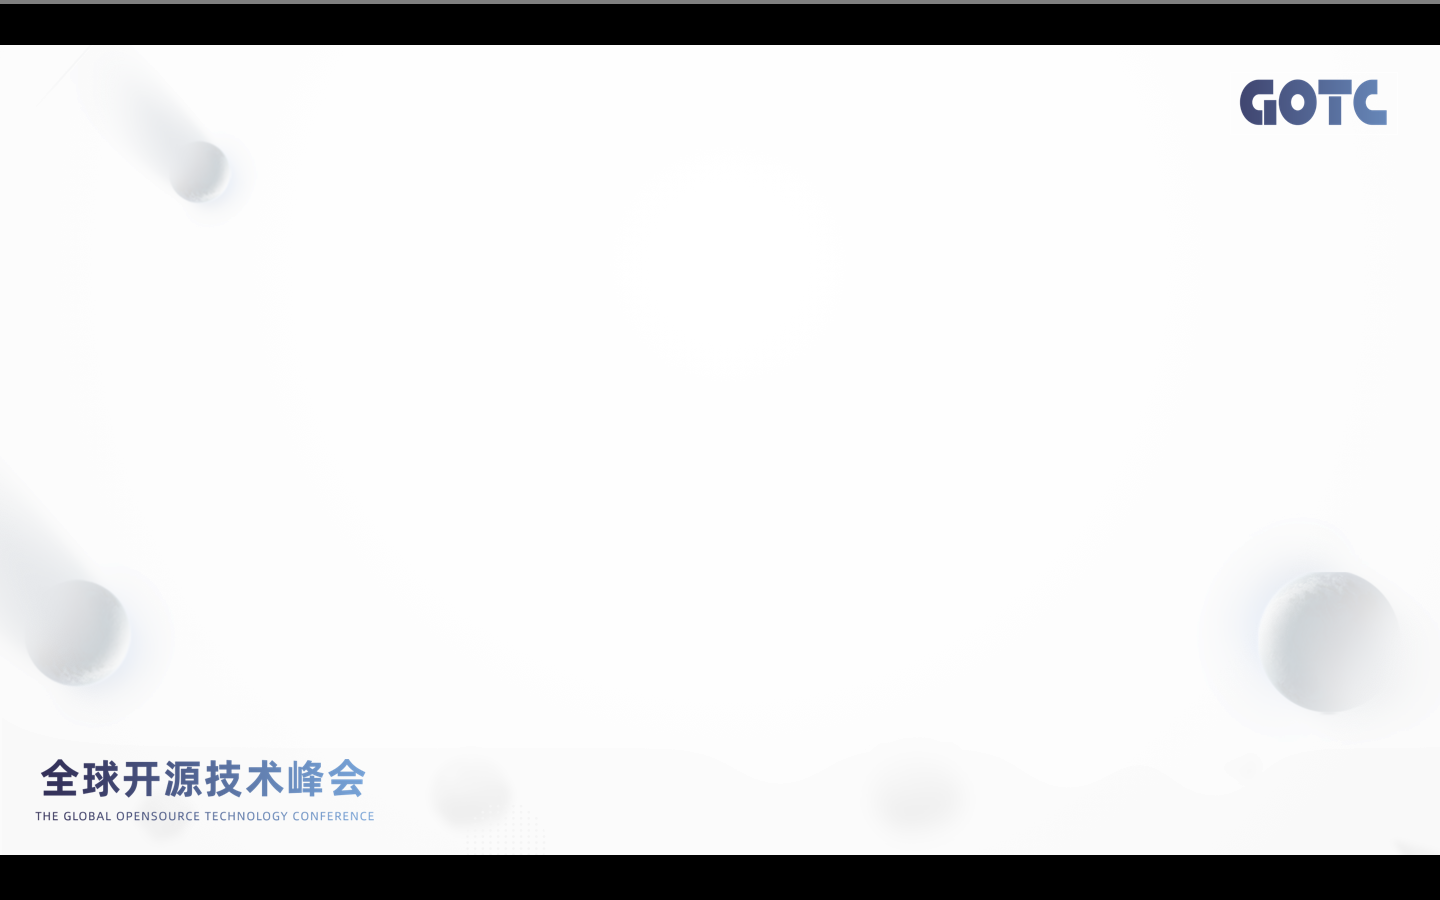
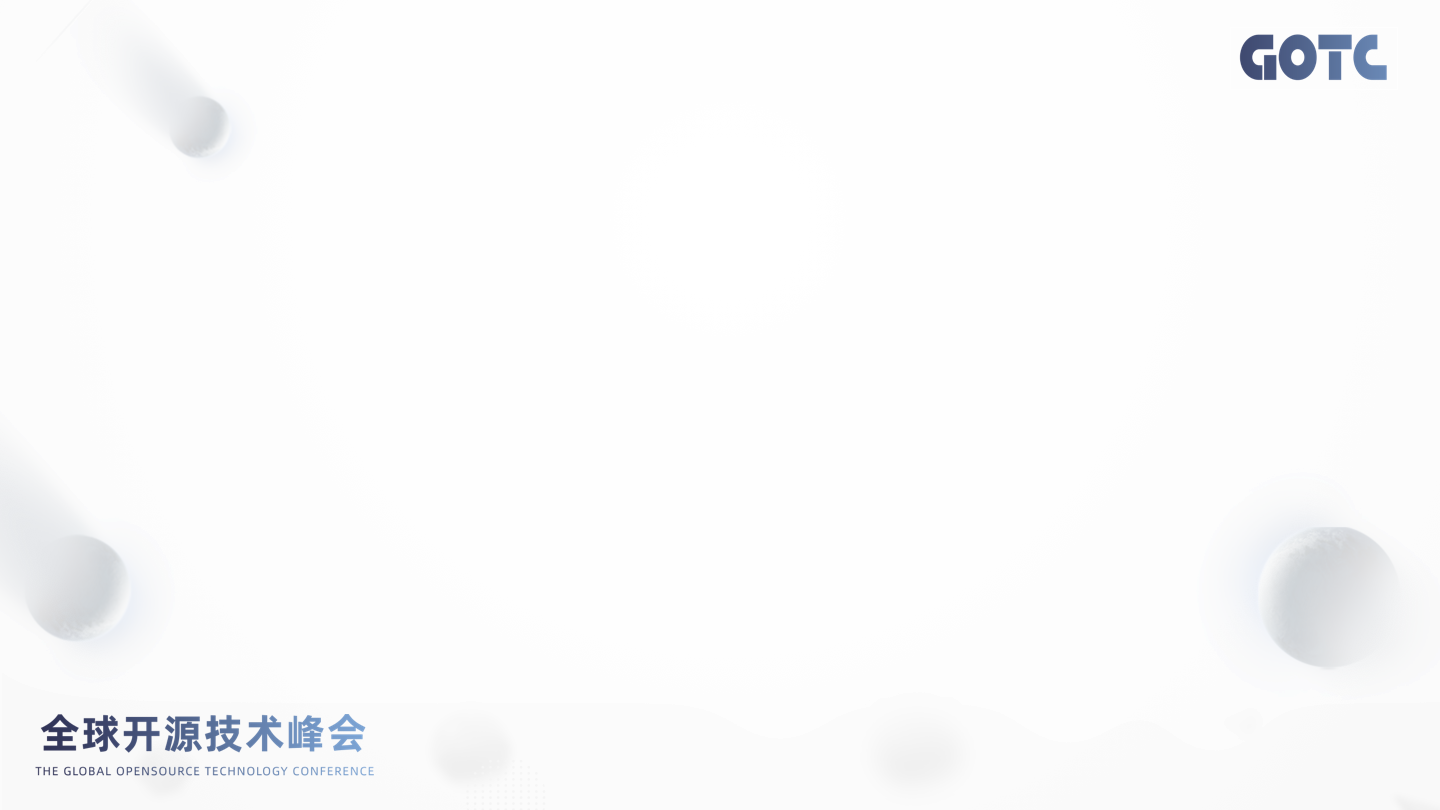
add gotc version

diff --git a/2023/var-ts/gotc.html b/2023/var-ts/gotc.html
@@ -1,0 +1,39 @@
+<!doctype html>
+<head>
+<meta charset="utf-8">
+<title>Slide</title>
+
+<link rel="stylesheet" href="../../takahashi/common.css">
+<link rel="stylesheet" title=light href="../../takahashi/light.css">
+<link rel="alternate stylesheet" title=dark href="../../takahashi/dark.css">
+<link rel="alternate stylesheet" title=EVA href="../../takahashi/eva.css">
+<link rel="alternate stylesheet" title=debug href="../../takahashi/debug.css">
+
+<link rel="stylesheet" title=light href="https://unpkg.com/prismjs/themes/prism.css">
+<link rel="alternate stylesheet" title=dark href="https://unpkg.com/prismjs/themes/prism-twilight.css">
+<link rel="alternate stylesheet" title=EVA href="https://unpkg.com/prismjs/themes/prism-tomorrow.css">
+
+<style>
+html {
+	background: url(./bg.png) no-repeat #ededed;
+	background-size: cover;
+	margin: 0;
+}
+html[data-slide-index="0"] {
+	background: url(./front.png) no-repeat #ededed;
+	background-size: cover;
+}
+</style>
+
+<body>
+<!--<div id="page-box"></div>-->
+
+<!-- <script src="https://unpkg.com/prismjs/prism.js" data-manual></script> -->
+<script src="https://unpkg.com/prismjs/components/prism-core.min.js"></script>
+<script src="https://unpkg.com/prismjs/plugins/autoloader/prism-autoloader.min.js"></script>
+<script src="../../takahashi/prism-file-highlight.js"></script>
+
+<!-- <link rel="stylesheet" href="https://unpkg.com/prismjs/plugins/line-highlight/prism-line-highlight.css"> -->
+<!-- <script src="https://unpkg.com/prismjs/plugins/line-highlight/prism-line-highlight.js"></script> -->
+
+<script src="../../takahashi/index.js"></script>

diff --git a/2023/var-ts/gotc.md b/2023/var-ts/gotc.md
@@ -1,0 +1,304 @@
+![]()
+
+知乎 贺师俊
+微博 @johnhax
+GitHub @hax
+
+关于我
+
+![hax github homepage](hax-github.png)
+
+Web前端和JS语言
+20多年发展历程
+见证人和参与者
+
+Ecma-TC39
+JavaScript 语言标准委员会
+- 2019年6月~2021年4月 360集团 代表
+- 2021年4月起 特邀专家
+
+JSCIG
+JavaScript Chinese Interest Group
+发起人和会议组织者
+
+以下JS语言提案的champion
+- Generator `function.sent` meta property
+- Static Dispatch (Extension methods)
+- `class.hasInstance()` meta method
+- Double-ended destructuring and iteration
+- slice notation (`array[start:end]`)
+- index from end (`array[^i]`)
+
+
+从 alt-JS 到 var-TS
+—— JavaScript/TypeScript 生态下的变种语言评述和展望
+
+什么是 alt-JS？
+
+![alt-js-1](google-alt-js-1.png)
+
+![alt-js-2](google-alt-js-2.png)
+
+![alt-js-3](google-alt-js-3.png)
+
+![alt-js-4](google-alt-js-4.png)
+
+![alt-js-5](google-alt-js-5.png)
+
+alt-JS是指可以被编译到JavaScript语言的任何非JavaScript语言。
+常见的alt-JS包括TypeScript，CoffeeScript，Dart等。这些语言都
+提供了更加丰富的语法和特性，使得开发者可以更加高效地编写复杂
+的应用程序。通过编译器或转换工具，alt-JS可以被转换为JavaScript
+代码，从而在任何支持JavaScript的浏览器或运行环境上执行。（GPT）
+
+Alternatives to JavaScript
+
+![alt-js-langs](google-alt-js-langs.png)
+
+[altjs.org](https://smurfpandey.github.io/altjs/)
+
+百花齐放
+
+咖啡真香
+
+2012
+
+三强争霸
+
+- [CoffeeScript 2009](https://coffeescript.org/)
+- [Dart 2011](https://blog.chromium.org/2011/10/dart-language-for-structured.html)
+- [TypeScript 2012](http://web.archive.org/web/20210926155037/https://channel9.msdn.com/posts/Anders-Hejlsberg-Introducing-TypeScript)
+
+[2015年时我的看法](https://zhuanlan.zhihu.com/p/20001713)
+CoffeeScript、Dart、TypeScript
+代表了Web编程语言发展的三条路线
+
+- Coffee：换汤不换药（改语法，基本不改语义）
+- TypeScript：保留原汤多加味药（基本不改，加入静态类型）
+- Dart：倒掉原来汤药，重新煎一罐（追求性能）
+
+顺便回答
+Why alt-JS？
+
+- DX（编程体验）
+- PITL（大型编程）
+- 性能
+
+[2015年时我的看法](https://zhuanlan.zhihu.com/p/20001713)
+- 天下仍然是JavaScript的，但JS本身大变样（ES 6）
+- TypeScript全面兼容ES6，路线之争大赢家（尽管用的人还不多）
+- CoffeeScript的大量语法糖被吸纳进了ES6里，算保留了精髓
+- 只有Dart处于越来越尴尬的境地
+
+[justgage/a-tour-of-alt-js-languages](https://speakerdeck.com/justgage/a-tour-of-alt-js-languages)
+
+- Babel
+- TypeScript
+- Elm
+- ReasonML
+
+CoffeeScript
+已经不见了
+
+- [2012/9 Dropbox 宣布其前端代码从JS改为Coffee](https://dropbox.tech/application/dropbox-dives-into-coffeescript)
+- [2017/5 Dropbox 基本完成从Coffee到TS的迁移](https://dropbox.tech/frontend/the-great-coffeescript-to-typescript-migration-of-2017)
+
+标志性事件
+Atom
+sunset on 2022/12
+
+总结一下 alt-JS 的历史
+- 前2009：百花齐放
+- 2009：咖啡真香
+- 2015：三强争霸，TS成为路线赢家
+- 2017：Coffee退潮，Dart转型，TS成为主流
+- 2022：TS寻求融入JS标准，Coffee离场
+- 2015~2022：几乎没有值得一提的新 alt-JS
+
+alt-JS 终结于 TS
+
+为什么 TS 笑到了最后？
+
+- DX（编程体验）
+- PITL（大型编程）
+- 性能
+
+DX 主观评分
+- ES3/ES5 40
+- Coffee 85
+- ES6 60
+- ES6+工具链（TS） 80
+- Coffee+工具链 90
+
+性能 可能不是问题
+- 90% 的项目不用考虑性能
+- JS 性能已经很好
+- 性能的工程解决方案有很多（如 WASM）
+
+采用 alt-JS 的收益
+采用 alt-JS 的成本
+
+TS/JS 一体化
+（无需 alt）
+
+TS 就是答案吗？
+
+没有银弹
+
+![deno内部代码去除ts](deno-stop-use-ts.png)
+
+![svelte从ts迁移到jsdoc](svelte-drop-ts.png)
+
+![放弃ts](google-giveup-ts.png)
+
+- [Deno will stop using TypeScript](https://news.ycombinator.com/item?id=23592483)
+- [TypeScript is ‘not worth it’ for developing libraries](https://devclass.com/2023/05/11/typescript-is-not-worth-it-for-developing-libraries-says-svelte-author-as-team-switches-to-javascript-and-jsdoc/)
+- [7 really good reasons not to use TypeScript](https://juejin.cn/post/6844904069224480782)
+- [17 Compelling Reasons To Start Ditching TypeScript Now](https://dev.to/wiseai/17-compelling-reasons-to-start-ditching-typescript-now-249b)
+
+并不是JS
+子集而不是超集
+不同的编译选项可认为是不同的子集
+
+类型系统过于强大但又有限制
+类型体操
+类型代码比实际代码还多
+学习曲线、使用成本
+
+By design
+Not Sound
+
+仅仅是type checker
+无RTTI
+类型信息不能
+用来提升性能
+
+var-TS
+
+什么是 var-TS？
+
+不用搜索
+不用问 ChatGPT
+
+因为这个术语
+是我发明的 😎
+
+Variants of TypeScript
+基于TypeScript的变种语言
+设计目标通常是克服TS的前述问题
+
+- TypeScript++/TypeScript--
+- AssemblyScript
+- Static TypeScript (Microsoft Makecode)
+- UniApp UTS（UCloud）
+- OpenHarmony eTS/arkTS（华为）
+- AliOS XTS（斑马智行）
+- TS subset 用于 IoT（某国内科技公司联合某国际大厂）
+
+
+[Typescript as fast as Rust: Typescript++](https://zaplib.com/docs/blog_ts++.html)
+TL;DR: This is a proposal to create a language that sits
+somewhere between Typescript and Rust, and which you
+can incrementally adopt if you already use Typescript.
+
+Zaplib的创业所基于的出发点
+1. JS & the browser are slow
+0. Incrementally porting JS to Rust/Wasm will speed up your app
+0. We’ll land-and-expand from small ports to take over your whole app
+0. In the long-run this evolves to a next-gen stack (”Unity for apps”)
+
+- 目标：性能
+- 设想 TS++ 生成更高效的 JS 对象（如利用 ArrayBuffer）
+- 设想 TS-- 在文件或函数级别使用类 Rust 的内存模型
+- 设想 可以编译到 native 或 wasm
+
+[AssemblyScript](https://www.assemblyscript.org/)
+[Doc: Using the langauge](https://www.assemblyscript.org/concepts.html)
+
+- 用 TS 语法写 wasm
+- 有对应 JS 的标准库
+- 对应 wasm（而不是 JS）的类型系统，没有类型体操
+- 有静态类型检查（函数语法），无运行时reflection
+- 特性（如 exceptions、async等）受限于 wasm 标准的进度（除了GC）
+
+[我的评价](https://www.zhihu.com/question/347763134/answer/839887835)
+写于2019年但今天仍然适用
+
+- 确定性子集（但具有更多基本数据类型）
+- 无类型体操相关问题（无union type）
+- Sound
+- AOT，静态类型用于提升性能
+- 需要深入了解 wasm
+
+Static TypeScript
+- [MakeCode项目语言介绍](https://makecode.com/language)
+- [microsoft/pxt](https://github.com/microsoft/pxt/blob/master/common-docs/javascript/sts.md)
+- [Microsoft Research paper](https://www.microsoft.com/en-us/research/publication/static-typescript/)
+
+- 基于 TS 2.6 的子集
+- 使用名义类型（nominal type），并支持用虚拟函数表的经典技术对类进行高效编译
+- STS 编译为 ARM Thumb 机器码并在浏览器中将其与预编译好的 C++ 运行时链接
+- 在小型基准测试中性能可以和 V8 JIT 编译器媲美，所需的内存则低几个数量级
+- 可以在 RAM 低达 16kB 的设备（例如 BBC micro:bit）上运行
+
+[UniApp UTS（DCloud）](https://zh.uniapp.dcloud.io/tutorial/syntax-uts.html)
+- 目标：跨平台开发，可编译为TS、Kotlin和Swift
+- 已经可用，主要用于开发跨平台组件，可利用UniApp已有的跨平台库
+
+我认为UTS的主要挑战
+语言的差异
+
+- 细节语义（如基本整数运算的溢出行为）
+- 内存模型（Swift使用引用计数和语言级弱引用支持）
+- 异步模型（Kotlin、Swift使用结构化异步）
+- 异常模型（JS/TS的欠缺）
+
+[Harmony ArkTS/eTS](https://developer.harmonyos.com/cn/docs/documentation/doc-guides/ets-get-started-0000001412054073)
+
+- 在 TS 上增加类似 SwiftUI 的声明式 UI
+- 增加更多语言特性（类 Kotlin）
+- 方舟编译器优化
+- 子集可能考虑中
+
+[AliOS XTS](https://developers.alios.cn/v1/doc/6/7705?refer=aside)
+
+- 目标：性能
+- TS 3.3 的子集，不支持 ES module
+- 魔改V8引擎（类似于基于V8的AOT）
+- unsound/sound 模式（类似 "use strict"）
+- 据说 sound 模式在生产中没有人用
+
+TS subset 用于 IoT
+（某国内科技公司）
+
+- 目标：性能
+- 方案A：魔改 QuickJS 利用类型信息生成更高效的数据结构
+- 方案B：TS子集编译到 WASM（与某国际大厂合作）
+- 尚在研发中
+
+
+回顾 Typescript as fast as Rust: Typescript++
+[Zaplib post-mortem](https://zaplib.com/docs/blog_post_mortem.html)
+
+“只有真正依赖 Rust 的零成本抽象特性时，才能实现 10 倍的巨大收益——这要归功
+于内存布局和对垃圾回收（GC）的规避，因此处理 100 万个 Rust 微结构的速度确
+实比处理 100 万个 JS 对象更快。但这种情况其实相当罕见，在增量调整中就更别
+指望了。即使 10 倍性能改进基本不成立，工程师们自然不会愿意接受这样一套需要
+重新学习、重新维护的工具链和技术堆栈。我们自己肯定不愿意，自然也不能强迫
+其他人。总之，**要想实现性能改进，一般都有比转向 Rust/Wasm 更简单的方法**。”
+
+总结
+
+- TS 获得巨大成功，但也孕育着新的机会
+- var-TS 雨后春笋，尤其国内公司也有很多不同路线的尝试
+- var-TS 的设计目标如果仅是性能，是否能获得市场成功？
+- [如何设计一个var-TS？](https://www.zhihu.com/question/442622908/answer/1715676739)
+
+- Static Dispatch (Extension methods)
+- `class.hasInstance()` meta method
+- Double-ended destructuring and iteration
+- slice notation (`array[start:end]`)
+- index from end (`array[^i]`)
+- Error handling
+
+QA

diff --git a/2023/var-ts/README.md b/2023/var-ts/README.md
@@ -1,0 +1,2 @@
+- [QCon版](slide)
+- [GOTC版](gotc?gotc)
